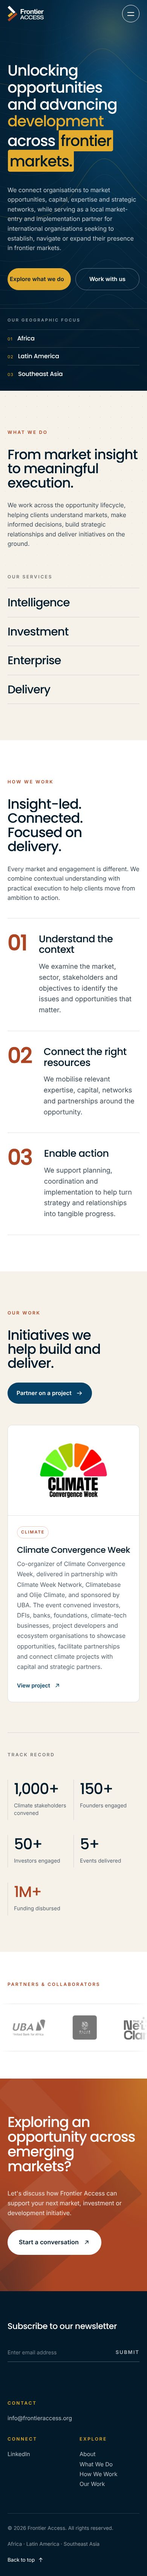
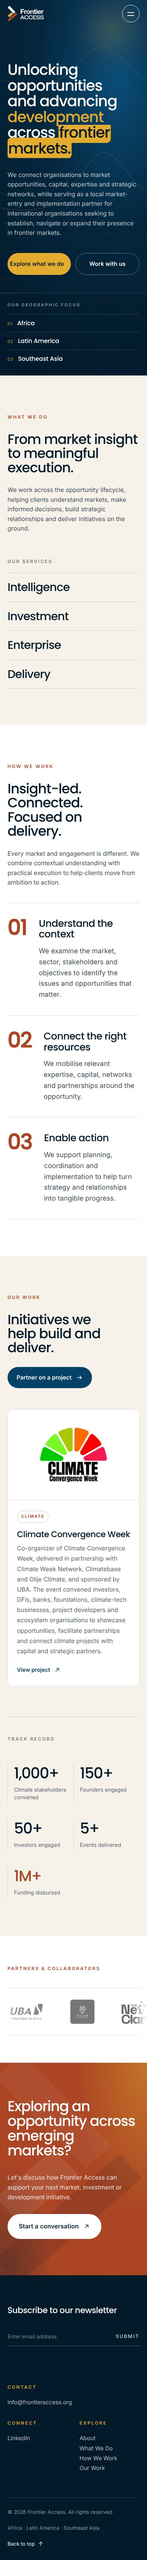
Restore the original hero highlight with 24px rounded corners
Revert the padded highlight from 7363c80. The highlight keeps its
original size and position; it is now an inline block of the same
height so all four corners show a 24px radius (scaled down on phones,
where the phrase wraps, so short lines don't turn into pills).

Claude-Session: https://claude.ai/code/session_013iMuxdDqZ6bm7NfrpEJfTy

diff --git a/styles.css b/styles.css
@@ -202,14 +202,13 @@ body.menu-open .mobile-menu li:nth-child(5) a { transition-delay: .44s; }
 }
 .hero-title em { font-style: normal; color: var(--gold); }
 .hero-hl {
-  color: #fff; padding: .1em .17em .02em; margin-left: .02em; border-radius: .13em;
+  display: inline-block; color: #fff; padding: 0 .06em .1em; margin: 0 -.02em -.1em; border-radius: min(24px, .3em);
   background: linear-gradient(var(--gold), var(--gold)) no-repeat 0 0 / 0% 100%;
   -webkit-box-decoration-break: clone; box-decoration-break: clone;
   transition: background-size 1s var(--ease) 1.25s, color .5s var(--ease) 1.45s;
 }
 .is-loaded .hero-hl { background-size: 100% 100%; color: var(--navy-ink); }
 .line { display: block; overflow: hidden; padding: 0 .08em .1em 0; margin-bottom: -.1em; }
-.hero-title .line:has(.hero-hl) { padding: .16em .08em .3em 0; margin: .15em 0 -.3em; }
 .line > span { display: inline-block; white-space: nowrap; transform: translateY(105%); transition: transform 1.2s var(--ease); }
 .is-loaded .hero-title .line > span { transform: none; }
 .is-loaded .hero-title .line:nth-child(1) > span { transition-delay: .25s; }
@@ -448,9 +447,7 @@ body.menu-open .mobile-menu li:nth-child(5) a { transition-delay: .44s; }
   .logo-full { height: 42px; width: calc(42px * 1288 / 563); }
   .hero-ctas .btn { flex: 1; justify-content: center; }
   .line > span { white-space: normal; }
-  .hero-title { line-height: 1.12; }
-  .hero-hl { padding: .05em .12em 0; border-radius: .12em; }
-  .hero-title .line:has(.hero-hl) { padding-top: .06em; margin-top: .02em; line-height: 1.34; }
+  .hero-hl { display: inline; padding: 0 .06em; margin: 0 -.02em; }
   .stat { padding: 4px 16px 8px; }
   .partner-logo { height: 64px; }
   .partner-logo.is-wide { height: 42px; }
